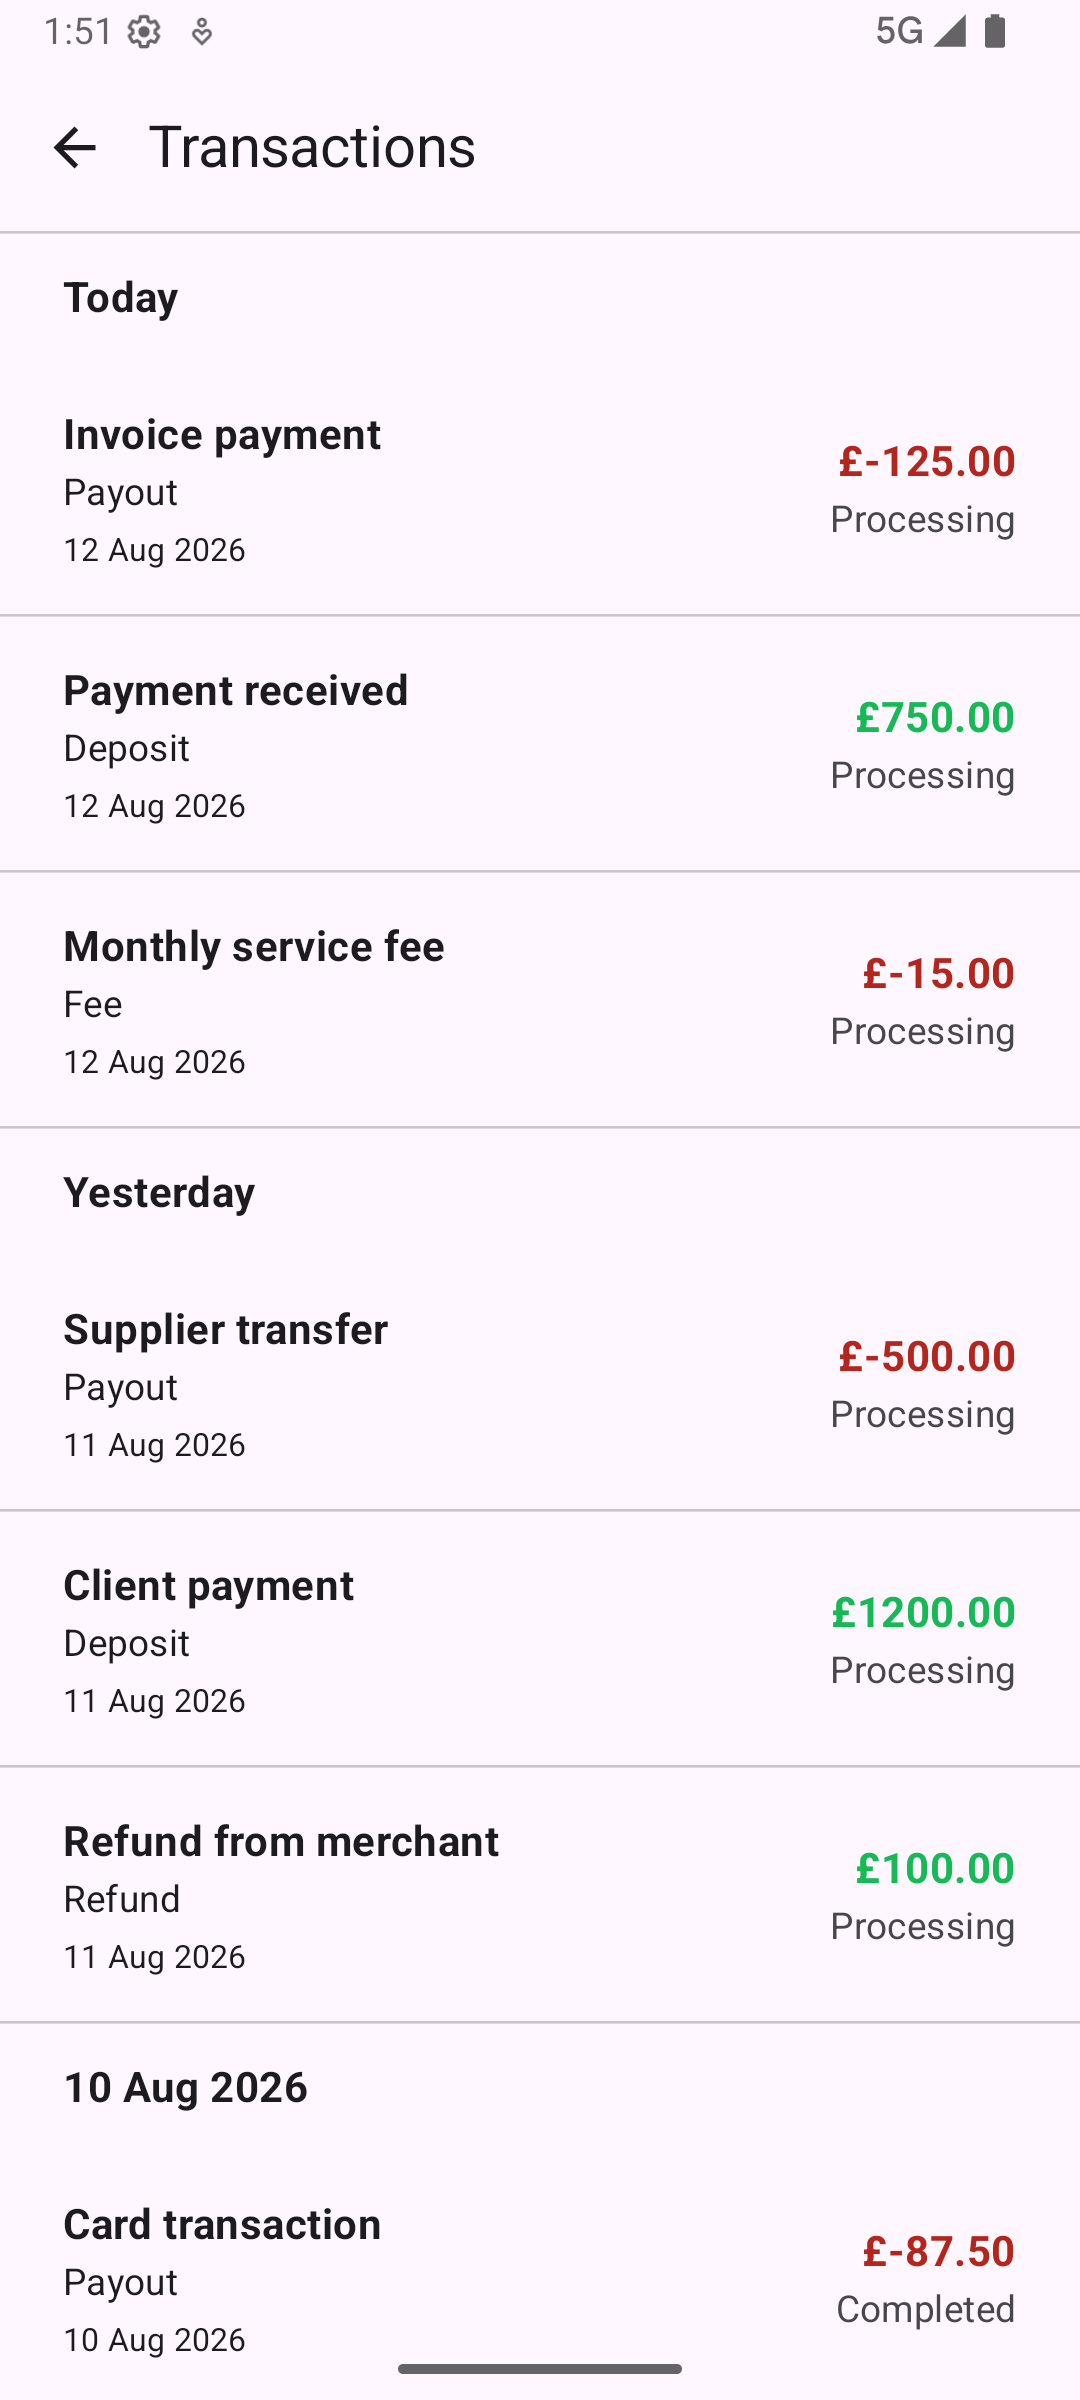
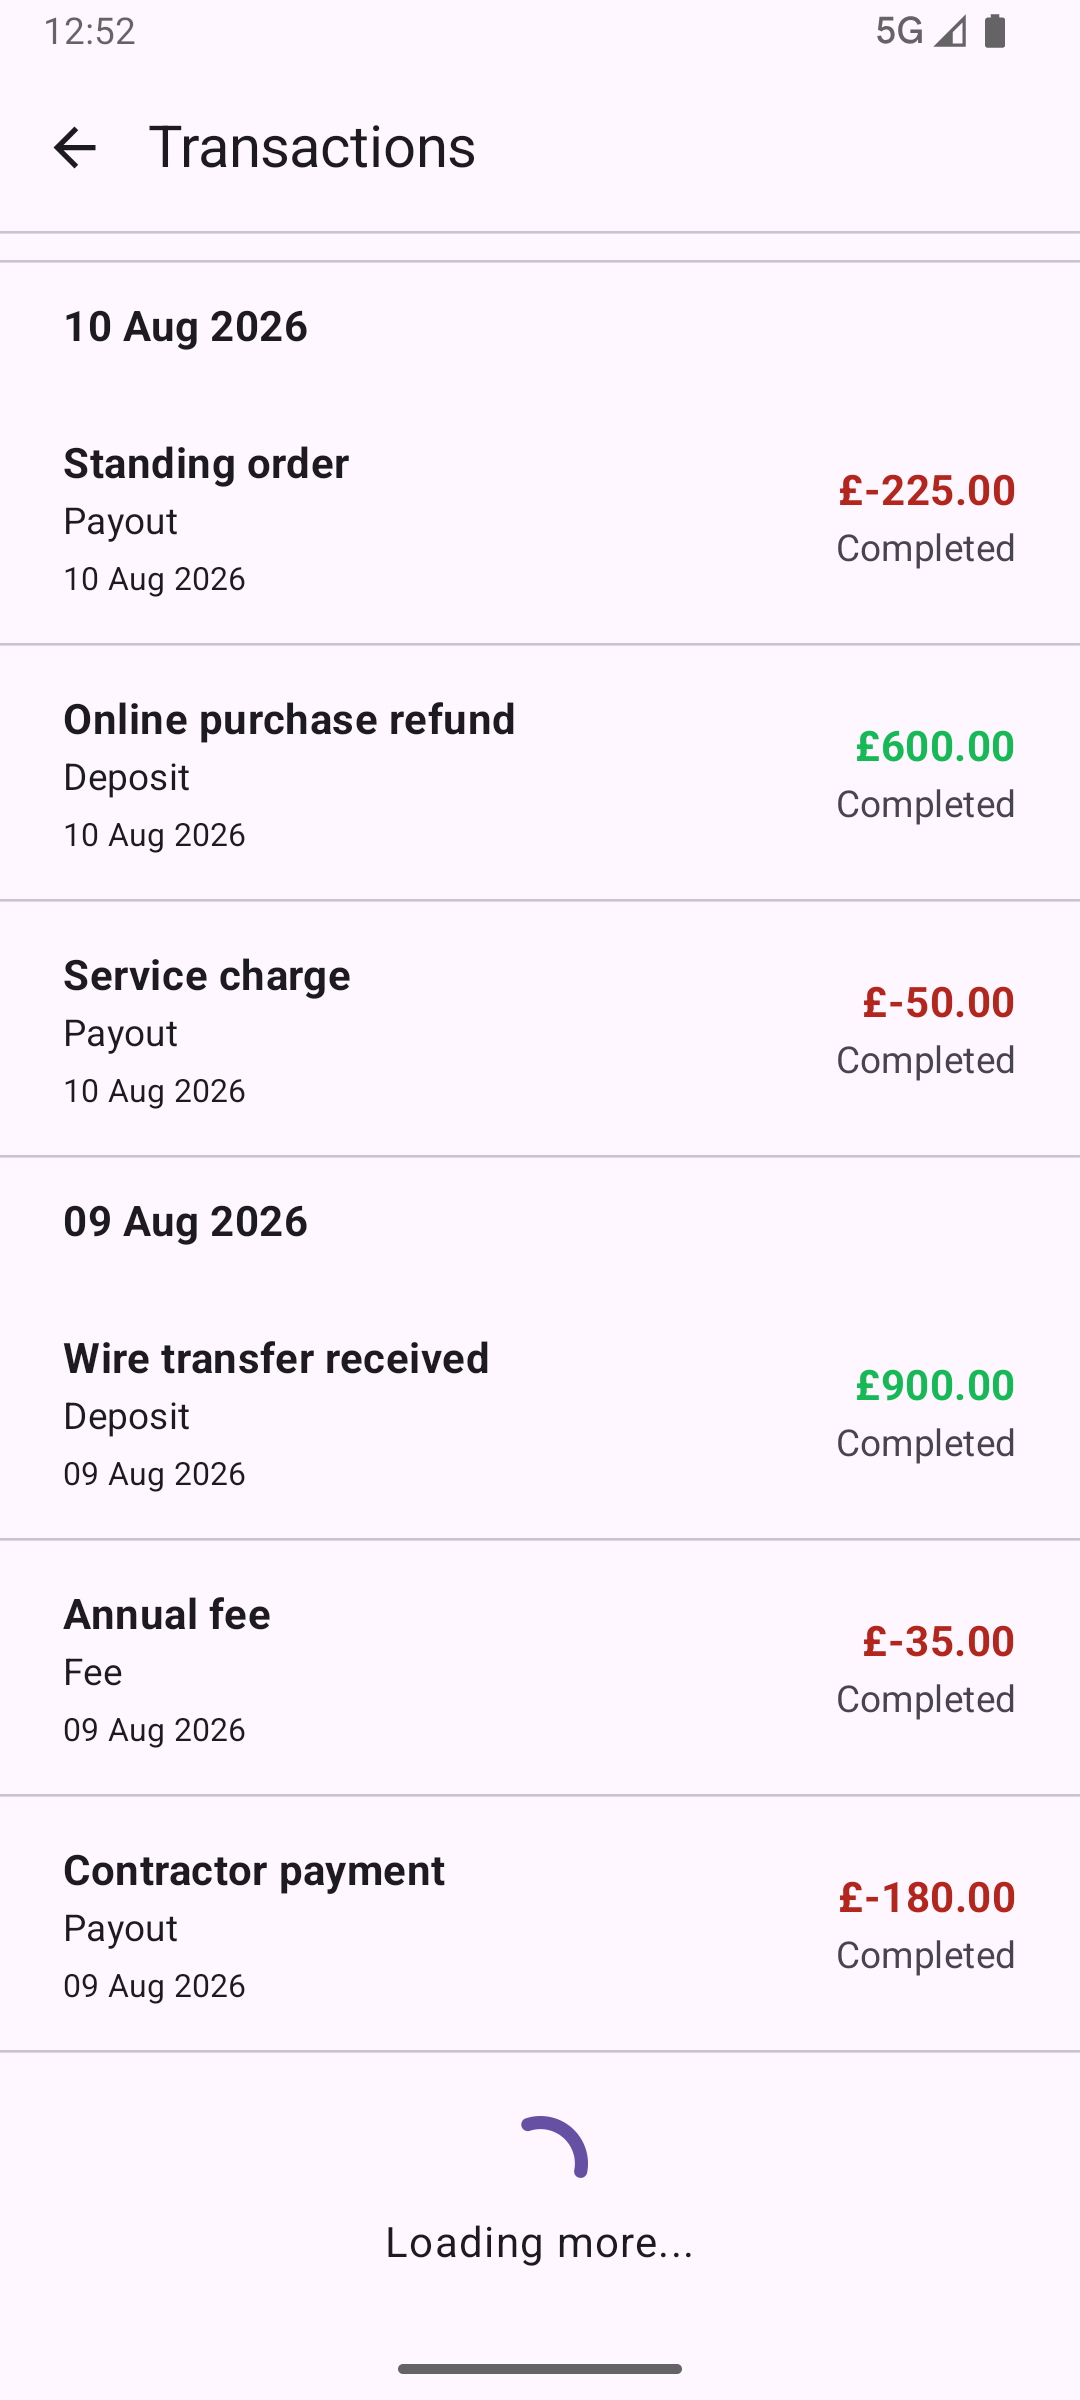
polish load more items UI

diff --git a/app/src/main/java/com/example/androidinterview/ui/transactions/TransactionListScreen.kt b/app/src/main/java/com/example/androidinterview/ui/transactions/TransactionListScreen.kt
@@ -8,6 +8,7 @@ import androidx.compose.foundation.layout.fillMaxSize
 import androidx.compose.foundation.layout.fillMaxWidth
 import androidx.compose.foundation.layout.height
 import androidx.compose.foundation.layout.padding
+import androidx.compose.foundation.layout.size
 import androidx.compose.foundation.lazy.LazyColumn
 import androidx.compose.foundation.lazy.rememberLazyListState
 import androidx.compose.material3.CircularProgressIndicator
@@ -25,6 +26,7 @@ import androidx.compose.ui.res.stringResource
 import androidx.compose.ui.text.font.FontWeight
 import androidx.compose.ui.text.font.FontWeight.Companion.Bold
 import androidx.compose.ui.unit.dp
+import androidx.compose.ui.unit.sp
 import androidx.hilt.lifecycle.viewmodel.compose.hiltViewModel
 import androidx.paging.LoadState
 import androidx.paging.compose.LazyPagingItems
@@ -151,13 +153,21 @@ private fun TransactionList(
             when (val appendState = items.loadState.append) {
                 is LoadState.Loading -> {
                     item {
-                        Box(
+                        Column(
                             modifier = Modifier
                                 .fillMaxWidth()
-                                .padding(24.dp),
-                            contentAlignment = Alignment.Center
+                                .padding(top = 24.dp, bottom = 48.dp),
+                            horizontalAlignment = Alignment.CenterHorizontally
                         ) {
-                            CircularProgressIndicator()
+                            CircularProgressIndicator(
+                                modifier = Modifier.size(36.dp),
+                                strokeWidth = 5.dp
+                            )
+                            Text(
+                                text = "Loading more...",
+                                fontSize = 16.sp,
+                                fontWeight = FontWeight.Normal
+                            )
                         }
                     }
                 }
